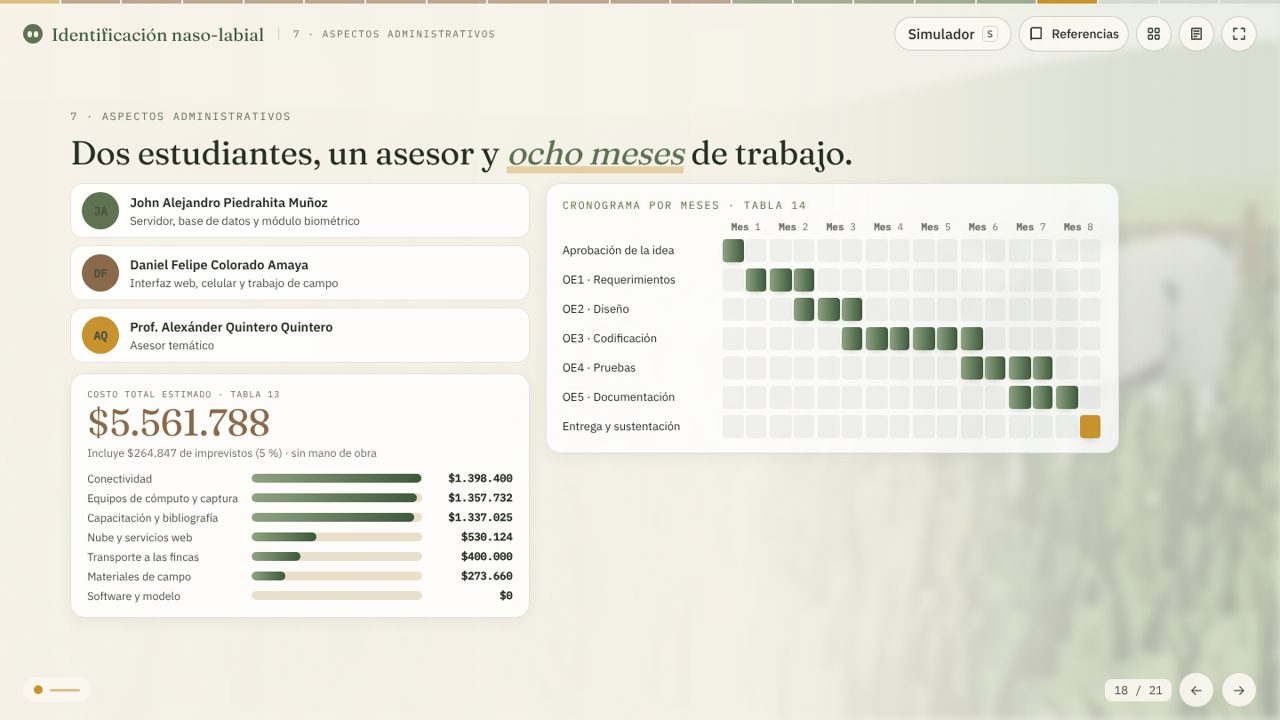
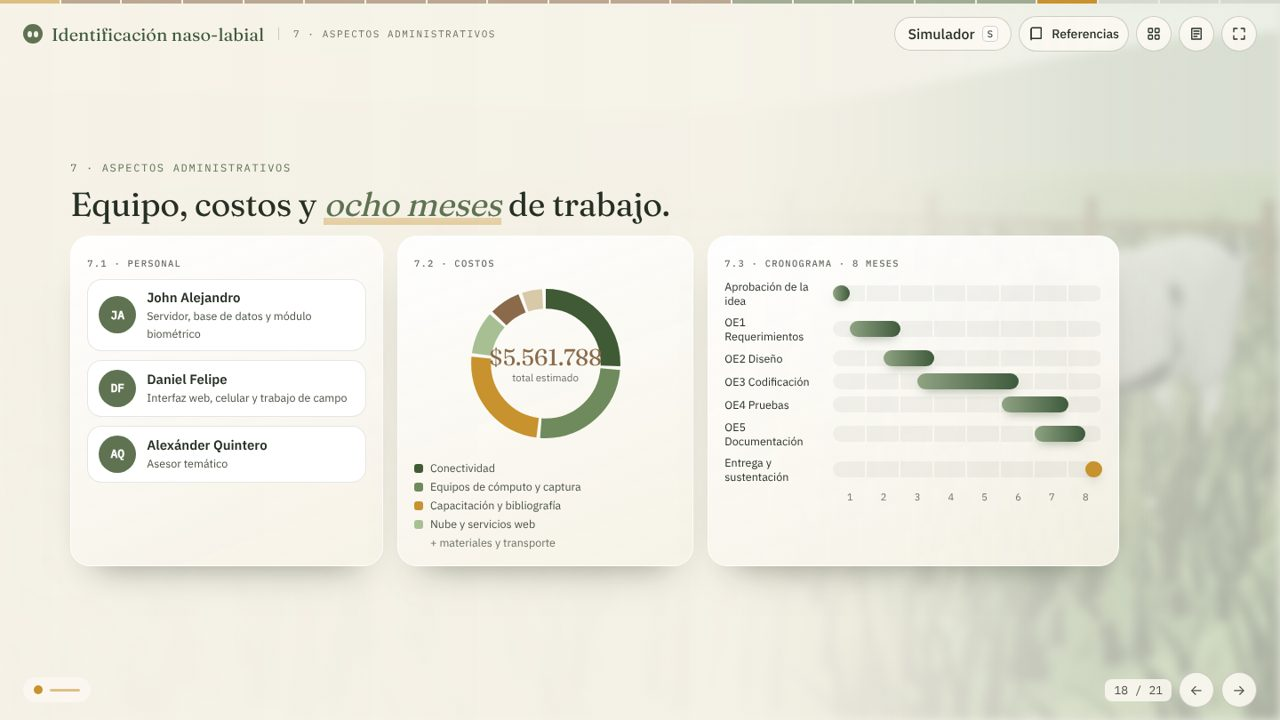
Portada sin «sistema» y con Comenzar como botón principal; planteamiento con hocico real y bovino 3D; alcance sin «No incluye»; aspectos administrativos rediseñados
Claude-Session: https://claude.ai/code/session_01VZveSBjEM3UYcU2Tn6Wvcg

Changed region(s): [[0.0312, 0.1528, 0.6562, 0.8556], [0.3438, 0.2444, 0.875, 0.825]]

diff --git a/src/presentation/scenes/documento.js b/src/presentation/scenes/documento.js
@@ -15,7 +15,6 @@ const EFF_WHY = [
 ];
 const RES_SHORT = ['Identificación no invasiva por el hocico', 'Aplicación web que centraliza el registro', 'Ficha e historial de cada animal', 'Registros con foto, más verificables'];
 const MOD_SHORT = ['Registro', 'Identificación', 'Trazabilidad', 'Estadísticas', 'Dashboard'];
-const OUT_SHORT = ['Muchos animales a la vez', 'Drones o cámaras fijas', 'Integración con SINIGAN', 'Reemplazar lo oficial', 'App de tienda', 'Entrenar la red', 'Detector automático', 'Uso sin internet'];
 /** Tabla 13 (V30) agrupada · valores en pesos colombianos */
 const COST_GROUPS = [
   ['Conectividad', 1398400], ['Equipos de cómputo y captura', 1357732], ['Capacitación y bibliografía', 1337025],
@@ -46,34 +45,29 @@ const SCREENS = [
 
 export const DOCUMENTO = {
   planteamiento: {
-    id: 'planteamiento', title: 'Planteamiento del problema', spk: 'D', wide: true, shot: { rel: [-4.2, 1.1, 4.6], look: 'body', lookOff: [0, -0.2, 0], shift: 0.36, graze: true },
-    html: () => `<div class="col wide pl-col">
+    id: 'planteamiento', title: 'Planteamiento del problema', spk: 'D', shot: { look: 'muzzle', rel: [-0.95, 0.16, 1.5], lookOff: [0, -0.05, -0.5], shift: 0.26, headUp: true },
+    html: () => `<div class="col pl2">
       <div class="eyebrow" data-a>2 · Planteamiento del problema</div>
       <h2 data-a>Planteamiento del <em>problema</em></h2>
-      <div class="pl" data-a>
-        <div class="pl-vis" aria-hidden="true"><svg viewBox="0 0 220 190">
-          <path class="pl-cow" d="M60 70c-14-4-30-2-38 8 10 4 22 6 34 4M160 70c14-4 30-2 38 8-10 4-22 6-34 4M62 58c10-24 86-24 96 0 8 22 8 54-2 78-6 14-20 26-46 26s-40-12-46-26c-10-24-10-56-2-78z"/>
-          <ellipse class="pl-muz" cx="110" cy="140" rx="32" ry="20"/><circle class="pl-n" cx="98" cy="140" r="4"/><circle class="pl-n" cx="122" cy="140" r="4"/><circle class="pl-eye" cx="88" cy="92" r="4"/><circle class="pl-eye" cx="132" cy="92" r="4"/>
-          <g class="pl-tag"><path d="M190 80l12 4v20l-12 4z"/><text x="194" y="97">012</text></g>
-          <g class="pl-q"><circle cx="110" cy="34" r="20"/><text x="110" y="42">?</text></g></svg>
-          <div class="pl-id"><span>Identidad asignada</span><b class="pl-code">BOV-012</b></div></div>
-        <div class="pl-card"><small>Problema central</small><b class="pl-core">Baja confiabilidad en la identificación de ganado bovino</b>
-          <p>No es fácil comprobar con seguridad que un animal corresponde realmente a la identidad que se le asignó.</p>
-          <div class="pl-facts"><span><b>29,5 M</b> bovinos en Colombia</span><span><b>Sin</b> plataforma propia en muchas fincas</span></div>${C('r11', 'r06', 'r07')}</div>
+      <div class="pl2-card" data-a>
+        <small>Problema central</small>
+        <b class="pl-core">Baja confiabilidad en la identificación de ganado bovino</b>
+        <p>No es fácil comprobar con seguridad que un animal corresponde realmente a la identidad que se le asignó.</p>
+        <div class="pl2-id"><div class="pl2-mz"><canvas width="180" height="180"></canvas><i class="pl2-scan"></i><i class="pl2-ring"></i></div>
+          <div class="pl2-who"><span>Identidad asignada</span><b class="pl-code">BOV-012</b><em class="pl2-st">Verificando…</em></div></div>
+        <div class="pl-facts"><span><b>29,5 M</b> bovinos en Colombia</span><span><b>Sin</b> plataforma propia en muchas fincas</span></div>${C('r11', 'r06', 'r07')}
       </div></div>`,
+    mount(root) { const cv = $('.pl2-mz canvas', root); cv.getContext('2d').drawImage(generateMuzzle(12, 'pigmentado', 'limpio', 220).color, 0, 0, cv.width, cv.height); },
     enter(root) {
-      const paths = $$('.pl-vis path, .pl-vis ellipse, .pl-vis circle', root);
-      paths.forEach(p => { const L = p.getTotalLength ? p.getTotalLength() : 100; gsap.fromTo(p, { strokeDasharray: L, strokeDashoffset: L }, { strokeDashoffset: 0, duration: 1.4, delay: 0.3, ease: 'power2.out' }); });
-      const tag = $('.pl-tag', root), q = $('.pl-q', root), code = $('.pl-code', root);
-      gsap.set(tag, { rotation: 0, y: 0, opacity: 1, transformOrigin: '190px 80px' }); gsap.set(q, { scale: 0, transformOrigin: '110px 34px' }); code.textContent = 'BOV-012'; code.classList.remove('lost');
-      this._tl?.kill(); const tl = this._tl = gsap.timeline({ delay: 1.4 });
-      tl.to(tag, { rotation: 14, duration: 0.25, yoyo: true, repeat: 3, ease: 'sine.inOut' })
-        .to(tag, { y: 120, rotation: 70, opacity: 0, duration: 0.9, ease: 'power2.in' })
-        .to({ v: 0 }, { v: 1, duration: 0.8, ease: 'none', onUpdate: () => { code.textContent = 'BOV-' + String(Math.floor(Math.random() * 900 + 100)); }, onComplete: () => { code.textContent = 'BOV-¿?'; code.classList.add('lost'); } })
-        .to(q, { scale: 1, duration: 0.6, ease: 'back.out(3)' }, '+=0.7');
-      gsap.fromTo($('.pl-card', root), { opacity: 0, x: 30 }, { opacity: 1, x: 0, duration: 0.7, delay: 0.5 });
-      gsap.fromTo($('.pl-core', root), { clipPath: 'inset(0 100% 0 0)' }, { clipPath: 'inset(0 0% 0 0)', duration: 1.2, delay: 0.9, ease: 'power2.inOut' });
-      gsap.fromTo($$('.pl-facts span', root), { opacity: 0, y: 10 }, { opacity: 1, y: 0, stagger: 0.15, duration: 0.45, delay: 2.2 });
+      const code = $('.pl-code', root), st = $('.pl2-st', root), mz = $('.pl2-mz', root);
+      code.textContent = 'BOV-012'; code.classList.remove('lost'); st.textContent = 'Verificando…'; st.classList.remove('bad'); mz.classList.remove('bad');
+      this._tl?.kill(); const tl = this._tl = gsap.timeline({ delay: 0.5 });
+      tl.fromTo('.pl2-card', { opacity: 0, y: 30 }, { opacity: 1, y: 0, duration: 0.7, ease: 'power3.out' })
+        .fromTo($('.pl-core', root), { clipPath: 'inset(0 100% 0 0)' }, { clipPath: 'inset(0 0% 0 0)', duration: 1.1, ease: 'power2.inOut' }, '-=0.3')
+        .fromTo(mz, { opacity: 0, scale: 0.7, rotate: -8 }, { opacity: 1, scale: 1, rotate: 0, duration: 0.7, ease: 'back.out(1.8)' }, '-=0.5')
+        .fromTo($('.pl2-scan', root), { top: '6%' }, { top: '90%', duration: 0.7, repeat: 3, yoyo: true, ease: 'sine.inOut' })
+        .to({ v: 0 }, { v: 1, duration: 0.9, ease: 'none', onUpdate: () => { code.textContent = 'BOV-' + String(Math.floor(Math.random() * 900 + 100)); }, onComplete: () => { code.textContent = 'BOV-¿?'; code.classList.add('lost'); st.textContent = 'No se puede comprobar'; st.classList.add('bad'); mz.classList.add('bad'); } }, '-=1.2')
+        .fromTo($$('.pl-facts span', root), { opacity: 0, y: 10 }, { opacity: 1, y: 0, stagger: 0.15, duration: 0.45 });
     },
     notes: { idea: 'El problema central: baja confiabilidad para comprobar que un animal es quien se dice que es.', guion: ['En Colombia hay 29,5 millones de bovinos y la ganadería aporta el 46 % del PIB pecuario; identificar a cada animal es clave para el control sanitario, la comercialización y la prevención del abigeato.', 'Existen sistemas oficiales como SINIGAN, pero muchas fincas no tienen una plataforma tecnológica propia para apoyar y verificar la identificación: dependen de planillas, aretes que se pierden y registros en papel que se pueden alterar.', 'Eso produce el problema central: la baja confiabilidad en la identificación, es decir, la dificultad para comprobar con seguridad que un animal corresponde a la identidad que se le asignó.'] },
   },
@@ -175,11 +169,10 @@ export const DOCUMENTO = {
     html: () => `<div class="col wide ap-col">
       <div class="eyebrow" data-a>4.3 · Alcance · clic en cada módulo</div>
       <h2 data-a>Un prototipo web, en el <em>celular</em>.</h2>
-      <div class="al-tags" data-a><span>Prototipo académico</span><span>Se abre en el navegador</span><span>10 a 20 bovinos</span></div>
       <div class="ap interactive" data-a>
-        <div class="ap-mods">${SCOPE.modules.map((m, i) => `<button class="ap-m" data-i="${i}"><i>${i + 1}</i><span><b>${MOD_SHORT[i]}</b><small>${m.t}</small></span><u></u></button>`).join('')}</div>
+        <div class="ap-mods">${SCOPE.modules.map((m, i) => `<button class="ap-m" data-i="${i}"><i>${i + 1}</i><span><b>${MOD_SHORT[i]}</b></span><u></u></button>`).join('')}</div>
         <div class="ap-phone"><div class="ap-notch"></div><div class="ap-scr">${SCREENS.map((h, i) => `<div class="ap-s" data-i="${i}">${h}</div>`).join('')}</div></div>
-        <div class="ap-out"><div class="al-h"><i class="no"></i>No incluye</div><div class="ap-chips">${OUT_SHORT.map(o => `<span>${o}</span>`).join('')}</div></div>
+        <div class="ap-say"><small class="ap-k">Módulo 1 de 5</small><b class="ap-t"></b><p class="ap-d"></p><div class="ap-dots">${SCOPE.modules.map(() => '<i></i>').join('')}</div><p class="ap-note">Prototipo académico: complementa, no reemplaza, los sistemas oficiales.</p></div>
       </div></div>`,
     mount(root) {
       const cv = $('.sc-id canvas', root); if (cv) cv.getContext('2d').drawImage(generateMuzzle(5, 'pigmentado', 'limpio', 160).color, 0, 0, cv.width, cv.height);
@@ -192,6 +185,12 @@ export const DOCUMENTO = {
         gsap.fromTo($$('.sc-row, .sc-ev, .sc-t, .sc-bars i, .sc-res, .sc-fab', s), { opacity: 0, y: 10 }, { opacity: 1, y: 0, stagger: 0.08, duration: 0.35, delay: 0.15 });
         if (i === 3) gsap.fromTo($$('.sc-bars i', s), { scaleY: 0 }, { scaleY: 1, transformOrigin: '50% 100%', stagger: 0.08, duration: 0.5, delay: 0.2, ease: 'back.out(1.6)' });
         if (i === 1) { gsap.fromTo($('.sc-scan', s), { top: '8%' }, { top: '88%', duration: 0.9, repeat: 1, yoyo: true, ease: 'sine.inOut' }); gsap.fromTo($('.sc-res', s), { opacity: 0, y: 12 }, { opacity: 1, y: 0, duration: 0.4, delay: 1.7, ease: 'back.out(2)' }); }
+        const say = $('.ap-say', root), m = SCOPE.modules[i];
+        $('.ap-k', say).textContent = `Módulo ${i + 1} de 5`; $('.ap-t', say).textContent = m.t;
+        $('.ap-d', say).innerHTML = m.d.split(' ').map(w => `<span>${w}</span>`).join(' ');
+        $$('.ap-dots i', say).forEach((d, k) => d.classList.toggle('on', k === i));
+        gsap.fromTo([$('.ap-k', say), $('.ap-t', say)], { opacity: 0, y: 14 }, { opacity: 1, y: 0, stagger: 0.08, duration: 0.45, ease: 'power3.out' });
+        gsap.fromTo($$('.ap-d span', say), { opacity: 0, y: 8, filter: 'blur(4px)' }, { opacity: 1, y: 0, filter: 'blur(0px)', stagger: 0.035, duration: 0.35, delay: 0.2 });
         const bar = $$('.ap-m u', root)[i]; gsap.killTweensOf($$('.ap-m u', root)); gsap.set($$('.ap-m u', root), { scaleX: 0 });
         if (this._autoOn) gsap.fromTo(bar, { scaleX: 0 }, { scaleX: 1, duration: 3, ease: 'none', transformOrigin: '0 50%' });
       };
@@ -200,12 +199,9 @@ export const DOCUMENTO = {
     },
     enter(root) {
       clearInterval(this._auto); this._autoOn = true;
-      gsap.fromTo($$('.al-tags span', root), { opacity: 0, y: -10 }, { opacity: 1, y: 0, stagger: 0.12, duration: 0.4, delay: 0.3 });
+      gsap.fromTo($('.ap-say', root), { opacity: 0, x: 30 }, { opacity: 1, x: 0, duration: 0.6, delay: 0.6 });
       gsap.fromTo($('.ap-phone', root), { opacity: 0, y: 40, rotate: -6 }, { opacity: 1, y: 0, rotate: 0, duration: 0.9, delay: 0.3, ease: 'back.out(1.4)' });
       gsap.fromTo($$('.ap-m', root), { opacity: 0, x: -24 }, { opacity: 1, x: 0, stagger: 0.1, duration: 0.45, delay: 0.5, ease: 'power2.out' });
-      gsap.fromTo($$('.ap-chips span', root), { opacity: 0, scale: 0.5 }, { opacity: 1, scale: 1, stagger: 0.07, duration: 0.4, delay: 1.1, ease: 'back.out(2.5)' });
-      setTimeout(() => $$('.ap-chips span', root).forEach((c, i) => setTimeout(() => c.classList.add('x'), i * 90)), 1700);
-      $$('.ap-chips span', root).forEach(c => c.classList.remove('x'));
       this._show(0); let k = 0;
       this._auto = setInterval(() => { if (!root.classList.contains('on') || !this._autoOn) return clearInterval(this._auto); k = (k + 1) % 5; this._show(k); }, 3000);
     },
@@ -215,26 +211,33 @@ export const DOCUMENTO = {
 
   administrativos: {
     id: 'administrativos', title: 'Aspectos administrativos', spk: 'DJ', wide: true, hide3d: true,
-    html: () => `<div class="col wide ad-col">
+    html: () => `<div class="col wide ad2-col">
       <div class="eyebrow" data-a>7 · Aspectos administrativos</div>
-      <h2 data-a>Dos estudiantes, un asesor y <em>ocho meses</em> de trabajo.</h2>
-      <div class="ad" data-a>
-        <div class="ad-left">
-          <div class="ad-team">${TEAM.map(([ini, n, r, k]) => `<div class="ad-p ${k}"><span class="ad-av">${ini}</span><div><b>${n}</b><span>${r}</span></div></div>`).join('')}</div>
-          <div class="ad-cost panel"><div class="ad-tot"><small>Costo total estimado · Tabla 13</small><b class="ad-num" data-to="${COST_TOTAL}">$0</b><span>Incluye ${peso(COST_IMP)} de imprevistos (5 %) · sin mano de obra</span></div>
-            <div class="ad-bars">${COST_GROUPS.map(([g, v]) => `<div class="ad-bar"><span>${g}</span><div><i style="--w:${(v / COST_GROUPS[0][1] * 100).toFixed(1)}%"></i></div><b>${v ? peso(v) : '$0'}</b></div>`).join('')}</div></div>
-        </div>
-        <div class="ad-gantt panel"><div class="eyebrow">Cronograma por meses · Tabla 14</div>
-          <div class="gt"><div class="gt-h"><span></span><div class="gt-m">${Array.from({ length: 8 }, (_, m) => `<span><b>Mes </b>${m + 1}</span>`).join('')}</div></div>
-            ${GANTT14.map(([t, q], r) => `<div class="gt-r${r === GANTT14.length - 1 ? ' last' : ''}"><span class="gt-t">${t}</span><div class="gt-track">${Array.from({ length: 16 }, (_, k) => `<i class="${q.includes(k) ? 'on' : ''}" style="--k:${k}"></i>`).join('')}</div></div>`).join('')}</div></div>
+      <h2 data-a>Equipo, costos y <em>ocho meses</em> de trabajo.</h2>
+      <div class="ad2" data-a>
+        <section class="ad2-c ad2-team"><header><small>7.1 · Personal</small></header>
+          ${TEAM.map(([ini, n, r, k]) => `<div class="ad2-p ${k}"><span class="ad-av">${ini}</span><div><b>${n.replace('Prof. ', '').split(' ').slice(0, 2).join(' ')}</b><span>${r}</span></div></div>`).join('')}</section>
+        <section class="ad2-c ad2-cost"><header><small>7.2 · Costos</small></header>
+          <div class="ad2-donut"><svg viewBox="0 0 120 120">${COST_GROUPS.filter(g => g[1]).map((g, i) => `<circle class="seg s${i}" cx="60" cy="60" r="46" pathLength="100"/>`).join('')}</svg>
+            <div class="ad2-tot"><b class="ad-num" data-to="${COST_TOTAL}">$0</b><span>total estimado</span></div></div>
+          <ul class="ad2-leg">${COST_GROUPS.filter(g => g[1]).slice(0, 4).map(([g], i) => `<li><i class="s${i}"></i>${g}</li>`).join('')}<li class="more">+ materiales y transporte</li></ul></section>
+        <section class="ad2-c ad2-time"><header><small>7.3 · Cronograma · 8 meses</small></header>
+          <div class="ad2-gt">${GANTT14.map(([t, q], r) => `<div class="ad2-r${r === GANTT14.length - 1 ? ' last' : ''}"><span>${t.replace(' · ', ' ')}</span><div class="ad2-tr"><i style="--a:${q[0]};--b:${q[q.length - 1] + 1}"></i></div></div>`).join('')}
+            <div class="ad2-m">${Array.from({ length: 8 }, (_, m) => `<span>${m + 1}</span>`).join('')}</div><i class="ad2-now"></i></div></section>
       </div></div>`,
     enter(root) {
-      gsap.fromTo($$('.ad-p', root), { opacity: 0, y: 16 }, { opacity: 1, y: 0, stagger: 0.12, duration: 0.5, delay: 0.3 });
-      gsap.fromTo($$('.ad-av', root), { scale: 0 }, { scale: 1, stagger: 0.12, duration: 0.5, delay: 0.4, ease: 'back.out(3)' });
-      const n = $('.ad-num', root), o = { v: 0 }; gsap.to(o, { v: +n.dataset.to, duration: 2, delay: 0.6, ease: 'power2.out', onUpdate: () => { n.textContent = peso(Math.round(o.v)); } });
-      gsap.fromTo($$('.ad-bar i', root), { scaleX: 0 }, { scaleX: 1, transformOrigin: '0 50%', stagger: 0.1, duration: 0.9, delay: 0.8, ease: 'power3.out' });
-      $$('.gt-r', root).forEach((r, i) => gsap.fromTo($$('i.on', r), { scaleX: 0, opacity: 0 }, { scaleX: 1, opacity: 1, transformOrigin: '0 50%', stagger: 0.05, duration: 0.35, delay: 0.9 + i * 0.28, ease: 'power2.out' }));
+      const cards = $$('.ad2-c', root);
+      gsap.fromTo(cards, { opacity: 0, y: 50, rotateX: -30 }, { opacity: 1, y: 0, rotateX: 0, stagger: 0.18, duration: 0.8, delay: 0.25, ease: 'back.out(1.4)', clearProps: 'transform' });
+      gsap.fromTo($$('.ad2-p', root), { opacity: 0, x: -20 }, { opacity: 1, x: 0, stagger: 0.15, duration: 0.5, delay: 0.7 });
+      gsap.fromTo($$('.ad2-p .ad-av', root), { scale: 0 }, { scale: 1, stagger: 0.15, duration: 0.5, delay: 0.75, ease: 'back.out(3)' });
+      // dona: cada grupo ocupa su parte del total
+      const vals = COST_GROUPS.filter(g => g[1]).map(g => g[1]), sum = vals.reduce((a, b) => a + b, 0); let acc = 0;
+      $$('.ad2-donut .seg', root).forEach((c, i) => { const len = vals[i] / sum * 100 - 0.8; c.style.strokeDashoffset = -acc; acc += vals[i] / sum * 100; gsap.fromTo(c, { strokeDasharray: `0 100` }, { strokeDasharray: `${len} ${100 - len}`, duration: 0.7, delay: 0.9 + i * 0.18, ease: 'power2.out' }); });
+      const n = $('.ad-num', root), o = { v: 0 }; gsap.to(o, { v: +n.dataset.to, duration: 2, delay: 0.9, ease: 'power2.out', onUpdate: () => { n.textContent = peso(Math.round(o.v)); } });
+      gsap.fromTo($$('.ad2-leg li', root), { opacity: 0, x: 10 }, { opacity: 1, x: 0, stagger: 0.1, duration: 0.4, delay: 1.6 });
+      gsap.fromTo($$('.ad2-tr i', root), { scaleX: 0 }, { scaleX: 1, transformOrigin: '0 50%', stagger: 0.22, duration: 0.6, delay: 1.1, ease: 'power3.out' });
+      const tw = $('.ad2-tr', root).offsetWidth; gsap.fromTo($('.ad2-now', root), { x: 0, opacity: 1 }, { x: tw, duration: 2.6, delay: 1.1, ease: 'none', onComplete: () => gsap.to($('.ad2-now', root), { opacity: 0, duration: 0.3 }) });
     },
-    notes: { idea: 'Quiénes hacen el proyecto, cuánto cuesta y en cuánto tiempo.', guion: ['Alejandro se encarga del servidor, la base de datos y el módulo biométrico; Daniel, de la interfaz web, el celular y el trabajo de campo. Los dos participan en los cinco objetivos y revisan el trabajo del otro.', 'Nuestro asesor temático es el profesor Alexánder Quintero Quintero, por su formación en instrumentación, redes y servicios telemáticos y gerencia de proyectos.', 'El costo total estimado es de $5.561.788, unos $695.000 al mes: lo que más pesa es la conectividad, el uso de los equipos y la capacitación. El software y la red preentrenada no cuestan.', 'El cronograma tiene ocho meses por quincenas: aprobación de la idea, los cinco objetivos en cascada con un pequeño traslape, y la entrega y sustentación en la última quincena.'] },
+    notes: { idea: 'Quiénes hacen el proyecto, cuánto cuesta y en cuánto tiempo.', guion: ['Alejandro se encarga del servidor, la base de datos y el módulo biométrico; Daniel, de la interfaz web, el celular y el trabajo de campo. Los dos participan en los cinco objetivos y revisan el trabajo del otro.', 'Nuestro asesor temático es el profesor Alexánder Quintero Quintero, por su formación en instrumentación, redes y servicios telemáticos y gerencia de proyectos.', 'El costo total estimado es de $5.561.788, unos $695.000 al mes, con 5 % de imprevistos y sin mano de obra: lo que más pesa es la conectividad, el uso de los equipos y la capacitación. El software y la red preentrenada no cuestan.', 'El cronograma tiene ocho meses por quincenas: aprobación de la idea, los cinco objetivos en cascada con un pequeño traslape, y la entrega y sustentación en la última quincena.'] },
   },
 };

diff --git a/src/presentation/presentation.css b/src/presentation/presentation.css
@@ -721,3 +721,66 @@ body.wide .wash { background: linear-gradient(90deg, rgba(246,242,232,.97) 0%, r
   .ap { grid-template-columns: 1fr; gap: 14px; } .ap-mods { grid-template-columns: repeat(2, minmax(0, 1fr)); } .ap-mods .ap-m:last-child { grid-column: 1 / -1; } .ap-m small { display: none; } .ap-m.on { transform: none; } .ap-m { padding: 9px 10px; }
   .ap-phone { width: 220px; height: 420px; order: -1; } .ap-out { grid-column: auto; } .ap-chips span { font-size: 12.5px; padding: 6px 10px; }
 }
+/* portada: el botón principal es comenzar la presentación */
+.btn.start { box-shadow: 0 14px 30px -14px rgba(47,69,40,.7); } .btn.start span { display: inline-block; transition: transform .25s; } .btn.start:hover span { transform: translateX(4px); }
+.btn.start::after { content: ''; position: absolute; inset: -4px; border-radius: 999px; border: 2px solid rgba(95,115,82,.45); animation: startPulse 2.2s ease-out infinite; pointer-events: none; } .btn.start { position: relative; }
+@keyframes startPulse { 0% { opacity: .9; transform: scale(.98); } 100% { opacity: 0; transform: scale(1.12); } }
+.btn.amber.soft { background: rgba(255,255,255,.6); color: #8a5a14; border-color: rgba(200,146,46,.6); font-size: 14px; padding: 9px 16px; }
+
+/* ===== planteamiento con el hocico real y el bovino 3D ===== */
+.pl2 { max-width: 620px; }
+.pl2-card { display: grid; gap: 12px; padding: 22px 24px; border-radius: 24px; background: linear-gradient(160deg, #3f5a34, #2f4528); color: var(--paper); box-shadow: 0 0 0 6px rgba(95,115,82,.15), 0 30px 50px -30px rgba(30,45,25,.8); }
+.pl2-card > small { font: 500 10.5px var(--f-mono); letter-spacing: .12em; text-transform: uppercase; color: rgba(251,248,241,.7); }
+.pl2-card > p { margin: 0; font-size: 15.5px; line-height: 1.5; color: rgba(251,248,241,.88); }
+.pl2-card .pl-core { font-family: var(--f-display); font-weight: 500; font-size: clamp(24px, 2.4vw, 36px); line-height: 1.15; }
+.pl2-id { display: flex; gap: 16px; align-items: center; padding: 12px; border-radius: 18px; background: rgba(255,255,255,.08); border: 1px solid rgba(255,255,255,.14); }
+.pl2-mz { position: relative; flex: none; width: 92px; height: 92px; border-radius: 16px; overflow: hidden; box-shadow: 0 10px 20px -10px rgba(0,0,0,.6); }
+.pl2-mz canvas { width: 100%; height: 100%; display: block; }
+.pl2-scan { position: absolute; left: 6%; right: 6%; top: 6%; height: 3px; border-radius: 3px; background: var(--amber); box-shadow: 0 0 12px 3px rgba(241,185,77,.75); }
+.pl2-ring { position: absolute; inset: 0; border-radius: 16px; border: 3px solid transparent; transition: border-color .4s; }
+.pl2-mz.bad .pl2-ring { border-color: #d9824e; animation: plBad 1.4s ease-out infinite; } .pl2-mz.bad .pl2-scan { display: none; }
+@keyframes plBad { 50% { box-shadow: inset 0 0 0 4px rgba(217,130,78,.45); } }
+.pl2-who { display: grid; gap: 2px; } .pl2-who span { font-size: 12px; color: rgba(251,248,241,.7); }
+.pl2-who .pl-code { font: 700 22px var(--f-mono); color: #fff; } .pl2-who .pl-code.lost { color: #f3b48a; }
+.pl2-st { font-style: normal; font-size: 12.5px; padding: 3px 10px; border-radius: 999px; background: rgba(255,255,255,.12); justify-self: start; } .pl2-st.bad { background: #d9824e; color: #fff; }
+.pl2-card .pl-facts span { background: rgba(255,255,255,.1); } .pl2-card .cite { background: rgba(255,255,255,.14); color: var(--paper); }
+/* ===== alcance: texto del módulo activo ===== */
+.ap { grid-template-columns: minmax(0, .8fr) 250px minmax(0, 1fr); gap: 36px; }
+.ap-phone { width: min(240px, 38vh); height: min(460px, 72vh); }
+.ap-mods { gap: 8px; } .ap-m { padding: 10px 14px; } .ap-m b { font-size: 17px; }
+.ap-say { display: grid; gap: 10px; align-content: center; padding: 6px 0; }
+.ap-k { font: 500 11px var(--f-mono); letter-spacing: .12em; text-transform: uppercase; color: var(--amber); }
+.ap-t { font-family: var(--f-display); font-weight: 500; font-size: clamp(26px, 2.6vw, 40px); line-height: 1.1; color: var(--forest); }
+.ap-d { margin: 0; font-size: clamp(16px, 1.3vw, 20px); line-height: 1.5; color: var(--ink-2); } .ap-d span { display: inline-block; }
+.ap-dots { display: flex; gap: 6px; } .ap-dots i { width: 22px; height: 5px; border-radius: 5px; background: var(--line-2); transition: width .35s, background .35s; } .ap-dots i.on { width: 44px; background: var(--amber); }
+.ap-note { margin: 6px 0 0; font-size: 13px; color: var(--muted); padding-top: 10px; border-top: 1px dashed var(--line-2); }
+@media (max-height: 700px) { .ap-phone { height: min(400px, 66vh); } .ap-s { padding-top: 32px; } .sc-cam { height: 180px; } .sc-cam canvas { width: 120px; height: 120px; } .sc-bars { height: 130px; } }
+/* ===== administrativos: tres tarjetas animadas ===== */
+.ad2 { display: grid; grid-template-columns: minmax(0, .95fr) minmax(0, .9fr) minmax(0, 1.25fr); gap: 16px; align-items: stretch; perspective: 1200px; }
+.ad2-c { display: grid; align-content: start; gap: 10px; padding: 18px; border-radius: 22px; background: linear-gradient(160deg, rgba(255,255,255,.96), rgba(246,242,230,.9)); border: 1px solid rgba(255,255,255,.8); box-shadow: 0 24px 40px -28px rgba(40,50,30,.55); }
+.ad2-c header small { font: 500 10.5px var(--f-mono); letter-spacing: .12em; text-transform: uppercase; color: var(--muted); }
+.ad2-p { display: flex; gap: 12px; align-items: center; padding: 10px 12px; border-radius: 16px; background: #fff; border: 1px solid var(--line); transition: transform .25s, box-shadow .25s; }
+.ad2-p:hover { transform: translateX(4px); box-shadow: var(--shadow); }
+.ad2-p b { display: block; font-size: 15px; } .ad2-p span:not(.ad-av) { font-size: 12.5px; color: var(--ink-2); }
+.ad2-donut { position: relative; width: min(190px, 100%); aspect-ratio: 1; justify-self: center; }
+.ad2-donut svg { width: 100%; height: 100%; transform: rotate(-90deg); }
+.ad2-donut .seg { fill: none; stroke-width: 14; stroke-dasharray: 0 100; }
+.s0 { stroke: #3f5a34; background: #3f5a34; } .s1 { stroke: #6f8a5c; background: #6f8a5c; } .s2 { stroke: #c8922e; background: #c8922e; } .s3 { stroke: #a8bf94; background: #a8bf94; } .s4 { stroke: #8a6a4a; background: #8a6a4a; } .s5 { stroke: #d8c9a8; background: #d8c9a8; }
+.ad2-tot { position: absolute; inset: 0; display: grid; place-content: center; text-align: center; }
+.ad2-tot .ad-num { font-size: clamp(20px, 1.8vw, 27px); } .ad2-tot span { font-size: 11.5px; color: var(--muted); }
+.ad2-leg { list-style: none; margin: 0; padding: 0; display: grid; gap: 5px; font-size: 12.5px; color: var(--ink-2); }
+.ad2-leg i { display: inline-block; width: 10px; height: 10px; border-radius: 3px; margin-right: 8px; vertical-align: middle; } .ad2-leg .more { color: var(--muted); padding-left: 18px; }
+.ad2-gt { position: relative; display: grid; gap: 8px; }
+.ad2-r { display: grid; grid-template-columns: 112px minmax(0, 1fr); gap: 10px; align-items: center; font-size: 12.5px; }
+.ad2-tr { position: relative; height: 18px; border-radius: 9px; background: repeating-linear-gradient(90deg, rgba(39,48,36,.05) 0 calc(12.5% - 2px), transparent calc(12.5% - 2px) 12.5%); }
+.ad2-tr i { position: absolute; top: 0; bottom: 0; left: calc(var(--a) / 16 * 100%); width: calc((var(--b) - var(--a)) / 16 * 100%); border-radius: 9px; background: linear-gradient(90deg, var(--sage, #8aa27a), var(--forest)); box-shadow: 0 6px 12px -6px rgba(40,60,30,.6); }
+.ad2-r.last .ad2-tr i { background: var(--amber); }
+.ad2-m { display: grid; grid-template-columns: repeat(8, 1fr); margin-left: 122px; font: 11px var(--f-mono); color: var(--muted); text-align: center; }
+.ad2-now { position: absolute; left: 0; top: -4px; bottom: 18px; width: 2px; margin-left: 122px; background: var(--amber); box-shadow: 0 0 10px rgba(241,185,77,.8); opacity: 0; max-width: calc(100% - 122px); }
+@media (max-width: 1100px) { .ad2 { grid-template-columns: 1fr 1fr; } .ad2-time { grid-column: 1 / -1; } .ap { grid-template-columns: minmax(0, 1fr) 230px; } .ap-say { grid-column: 1 / -1; } }
+@media (max-width: 820px), (max-height: 520px) {
+  .pl2-card { padding: 16px; } .pl2-mz { width: 74px; height: 74px; }
+  .ap { grid-template-columns: 1fr; } .ap-phone { order: -1; width: 220px; height: 400px; } .ap-say { text-align: center; justify-items: center; }
+  .ad2 { grid-template-columns: 1fr; } .ad2-r { grid-template-columns: 90px minmax(0, 1fr); font-size: 11.5px; } .ad2-m { margin-left: 100px; } .ad2-now { margin-left: 100px; max-width: calc(100% - 100px); }
+}
+@media (max-height: 700px) and (min-width: 821px) { .giant.title-doc.long { font-size: clamp(30px, 3vw, 46px); } .authors { padding: 8px 0; font-size: 15px; } }

diff --git a/src/presentation/scenes/apertura.js b/src/presentation/scenes/apertura.js
@@ -19,12 +19,12 @@ export const APERTURA = [
     id: 'portada', block: B, title: 'Portada', spk: 'DJ', shot: { rel: [2.3, 0.35, 3.4], look: 'body', lookOff: [0, 0.1, 0.4], shift: 0.24 },
     html: () => `<div class="col">
       <div class="eyebrow" data-a>${PROJECT.university} · ${PROJECT.year}</div>
-      <h1 class="giant title-doc long" data-a><em>Desarrollo</em> de un prototipo de sistema de identificación naso-labial en bovinos, apoyado en inteligencia artificial</h1>
+      <h1 class="giant title-doc long" data-a><em>Desarrollo</em> de un prototipo de identificación naso-labial en bovinos, apoyado en inteligencia artificial</h1>
       <p class="lead" data-a>Reconocer a cada animal por su hocico, con una foto del celular.</p>
       <div class="authors" data-a><div><b>Daniel Felipe Colorado Amaya</b></div><div><b>John Alejandro Piedrahita Muñoz</b></div>
         <div class="small">${PROJECT.program} · ${PROJECT.faculty}</div>
         <div class="small">Fundamentos de Investigación · Asesor: <b>Prof. Alexander Quintero</b></div></div>
-      <div class="row" data-a><a class="btn amber big" href="${SIM}">EXPLORAR EL SIMULADOR</a><button class="btn ghost" onclick="NASOID_P.go(1)">Comenzar →</button></div>
+      <div class="row" data-a><button class="btn primary big start" onclick="NASOID_P.go(1)">Comenzar la presentación <span>→</span></button><a class="btn amber soft" href="${SIM}">Abrir el simulador</a></div>
       <p class="hint" data-a>← → para avanzar · <kbd>M</kbd> índice · <kbd>R</kbd> referencias · <kbd>N</kbd> notas</p></div>`,
     enter(root) { gsap.fromTo($('.giant', root), { letterSpacing: '0.08em', opacity: 0, filter: 'blur(8px)' }, { letterSpacing: '0em', opacity: 1, filter: 'blur(0px)', duration: 1.4, ease: 'power3.out' }); },
     notes: { idea: 'Presentarnos, presentar el proyecto y decir qué vamos a mostrar.', guion: ['Buenos días. Somos estudiantes de Ingeniería de Sistemas y Telecomunicaciones de la Universidad Católica de Pereira.', 'Nuestro proyecto es un prototipo para reconocer a cada bovino por la huella de su hocico, con una foto del celular e inteligencia artificial.', 'Seguimos el orden del documento: planteamiento del problema, justificación, objetivos y alcance, metodología, marco de referencia y aspectos administrativos; al final lo verán funcionar en un simulador.'] },
@@ -93,7 +93,7 @@ export const APERTURA = [
     id: 'objetivos', block: B, title: 'Objetivos', spk: 'D', shot: { rel: [4.6, 1.1, 4.4], look: 'body', lookOff: [0, -0.2, 0], shift: 0.32, graze: true }, wide: true,
     html: () => `<div class="col wide">
       <div class="eyebrow" data-a>4.1 y 4.2 · Objetivos · clic en cada objetivo</div>
-      <div class="og" data-a><small>Objetivo general</small><h2>${GENERAL_OBJECTIVE.replace('Desarrollar', '<em>Desarrollar</em>')}</h2><p class="og-t"><span>Título</span><b>Desarrollo</b> de un prototipo de sistema de identificación naso-labial en bovinos, apoyado en inteligencia artificial</p></div>
+      <div class="og" data-a><small>Objetivo general</small><h2>${GENERAL_OBJECTIVE.replace('Desarrollar', '<em>Desarrollar</em>')}</h2><p class="og-t"><span>Título</span><b>Desarrollo</b> de un prototipo de identificación naso-labial en bovinos, apoyado en inteligencia artificial</p></div>
       <ol class="steps5 interactive" data-a>${OBJECTIVES.map((o, i) => `<li><button data-i="${i}"><i>${i + 1}</i><b>${o.v}</b><span>${o.t.split(',')[0]}…</span></button></li>`).join('')}</ol>
       <div class="obj-detail panel" id="obj-detail" data-a></div></div>`,
     mount(root) {
@@ -101,6 +101,6 @@ export const APERTURA = [
       $$('.steps5 button', root).forEach(b => b.onclick = () => show(+b.dataset.i)); show(0);
     },
     enter(root) { gsap.fromTo($('.og-t', root), { opacity: 0, y: 10 }, { opacity: 1, y: 0, duration: 0.6, delay: 1.2 }); gsap.fromTo($('.og-t b', root), { backgroundSize: '0% 100%' }, { backgroundSize: '100% 100%', duration: 0.7, delay: 1.7 }); gsap.fromTo($$('.steps5 li', root), { opacity: 0, y: 30, rotateX: -40 }, { opacity: 1, y: 0, rotateX: 0, stagger: 0.12, duration: 0.6, delay: 0.3, ease: 'back.out(1.5)' }); gsap.fromTo($$('.steps5 i', root), { scale: 0 }, { scale: 1, stagger: 0.12, duration: 0.5, delay: 0.5, ease: 'back.out(3)' }); },
-    notes: { idea: 'Un objetivo general y cinco específicos, uno por fase del proyecto (Tabla 7).', guion: ['El objetivo general empieza con el verbo «desarrollar», coherente con el título del trabajo: «Desarrollo de un prototipo de sistema de identificación naso-labial en bovinos, apoyado en inteligencia artificial».', 'Definir requerimientos, diseñar la arquitectura, codificar los módulos, hacer pruebas de sistema y de aceptación, y documentar.', 'Cada objetivo corresponde a una fase del modelo en cascada y deja un producto verificable. Elegimos cascada porque el alcance es pequeño y está definido; al cierre de cada fase revisamos antes de seguir.'] },
+    notes: { idea: 'Un objetivo general y cinco específicos, uno por fase del proyecto (Tabla 7).', guion: ['El objetivo general empieza con el verbo «desarrollar», coherente con el título del trabajo: «Desarrollo de un prototipo de identificación naso-labial en bovinos, apoyado en inteligencia artificial».', 'Definir requerimientos, diseñar la arquitectura, codificar los módulos, hacer pruebas de sistema y de aceptación, y documentar.', 'Cada objetivo corresponde a una fase del modelo en cascada y deja un producto verificable. Elegimos cascada porque el alcance es pequeño y está definido; al cierre de cada fase revisamos antes de seguir.'] },
   },
 ];

diff --git a/src/presentation/scenes/cierre.js b/src/presentation/scenes/cierre.js
@@ -17,7 +17,7 @@ export const CIERRE = [
       <div class="question" data-a><span>Nuestra investigación responderá</span>${QUESTION}</div>
       <div class="thanks" data-a><b>Gracias</b><span>Al profesor <b>Alexander Quintero</b>, por su asesoría en Fundamentos de Investigación durante la elaboración del documento.</span></div>
       <div class="row center" data-a><a class="btn amber big" href="${SIM}">EXPLORAR EL SIMULADOR</a><button class="btn" onclick="NASOID_P.go(NASOID_P.count-1)">Referencias</button></div></div>`,
-    enter(root) { gsap.fromTo($('.question', root), { clipPath: 'inset(0 100% 0 0)' }, { clipPath: 'inset(0 0% 0 0)', duration: 1.6, delay: 0.8, ease: 'power2.inOut' }); gsap.fromTo($('.thanks b', root), { scale: 0.6, opacity: 0 }, { scale: 1, opacity: 1, duration: 0.8, delay: 1.8, ease: 'elastic.out(1, .5)' }); },
+    enter(root) { gsap.fromTo($('.question', root), { clipPath: 'inset(0 100% 0 0)' }, { clipPath: 'inset(0 0% 0 0)', duration: 1.6, delay: 0.8, ease: 'power2.inOut' }); gsap.fromTo($('.thanks b', root), { scale: 0.6, opacity: 0 }, { scale: 1, opacity: 1, duration: 0.8, delay: 1.8, ease: 'back.out(1.6)' }); },
     notes: { idea: 'Cerrar con la idea central y agradecer.', guion: ['Proponemos identificar sin marcar: una foto del hocico, inteligencia artificial y un registro confiable.', 'Agradecemos al profesor Alexander Quintero por su acompañamiento. Quedamos atentos a sus preguntas.'] },
   },
   {

diff --git a/tests/e2e.py b/tests/e2e.py
@@ -56,7 +56,7 @@ def presentation(b):
         pg.wait_for_timeout(2200); shot(pg, f'pres_{i + 1:02d}')
     check('pres.navegacion_teclado', pg.evaluate('NASOID_P.idx') == n - 1)
     txt = pg.eval_on_selector('#slides', 'e => e.textContent')
-    check('pres.cifras_documento', all(x in txt for x in ['Entrega y sustentación', 'No incluye', '$1.398.400', 'Alta confiabilidad']))
+    check('pres.cifras_documento', all(x in txt for x in ['Entrega y sustentación', 'Identidad asignada', 'Capacitación y bibliografía', 'Alta confiabilidad', 'Problema central']))
     check('pres.tabla1_metodologia', all(x in txt for x in ['Positivista', 'Cuantitativo', 'Aplicada', 'Correlacional', 'No experimental']))
     pg.keyboard.press('Home'); pg.wait_for_timeout(500); check('pres.home', pg.evaluate('NASOID_P.idx') == 0)
     # interacciones

diff --git a/README.md b/README.md
@@ -58,7 +58,7 @@ Sigue el orden de los capítulos del documento: **Planteamiento del problema · 
 <table>
 <tr>
 <td width="50%"><img src="docs/screens/pres-contexto.jpg" alt="Contexto"><br><b>Contexto.</b> Cifras del sector ganadero con barras y contadores animados.</td>
-<td width="50%"><img src="docs/screens/pres-planteamiento.jpg" alt="Planteamiento del problema"><br><b>Planteamiento del problema.</b> El problema central con una identidad que se pierde; en la siguiente escena, sus cuatro efectos.</td>
+<td width="50%"><img src="docs/screens/pres-planteamiento.jpg" alt="Planteamiento del problema"><br><b>Planteamiento del problema.</b> El problema central junto al bovino 3D: un hocico real cuya identidad no se puede comprobar; en la siguiente escena, sus cuatro efectos.</td>
 </tr>
 <tr>
 <td><img src="docs/screens/pres-justificacion.jpg" alt="Justificación"><br><b>Justificación.</b> Cada tarjeta gira del efecto a su respuesta y la línea llega al objetivo de alta confiabilidad.</td>
@@ -70,11 +70,11 @@ Sigue el orden de los capítulos del documento: **Planteamiento del problema · 
 </tr>
 <tr>
 <td><img src="docs/screens/pres-tabla1.jpg" alt="Tabla 1"><br><b>Tabla 1.</b> Cada fila recorre las opciones posibles y se detiene en la que elegimos, con su razón.</td>
-<td><img src="docs/screens/pres-alcance.jpg" alt="Alcance"><br><b>Alcance.</b> Un celular muestra cada uno de los cinco módulos; al lado, lo que no incluye.</td>
+<td><img src="docs/screens/pres-alcance.jpg" alt="Alcance"><br><b>Alcance.</b> Un celular muestra cada uno de los cinco módulos y al lado se explica el que está activo.</td>
 </tr>
 <tr>
 <td><img src="docs/screens/pres-funciona.jpg" alt="Cómo funciona"><br><b>¿Cómo funciona?</b> Registro, foto, análisis, comparación y decisión, cada paso con su animación.</td>
-<td><img src="docs/screens/pres-administrativos.jpg" alt="Aspectos administrativos"><br><b>Aspectos administrativos.</b> Equipo, costos de la Tabla 13 y cronograma de la Tabla 14 animado.</td>
+<td><img src="docs/screens/pres-administrativos.jpg" alt="Aspectos administrativos"><br><b>Aspectos administrativos.</b> Tres tarjetas animadas: el equipo, la dona de costos de la Tabla 13 y el cronograma de la Tabla 14.</td>
 </tr>
 <tr>
 <td><img src="docs/screens/pres-propuesta.jpg" alt="Marco teórico"><br><b>Marco teórico.</b> Las cuatro propiedades del rasgo biométrico, con el hocico resaltado en 3D.</td>
